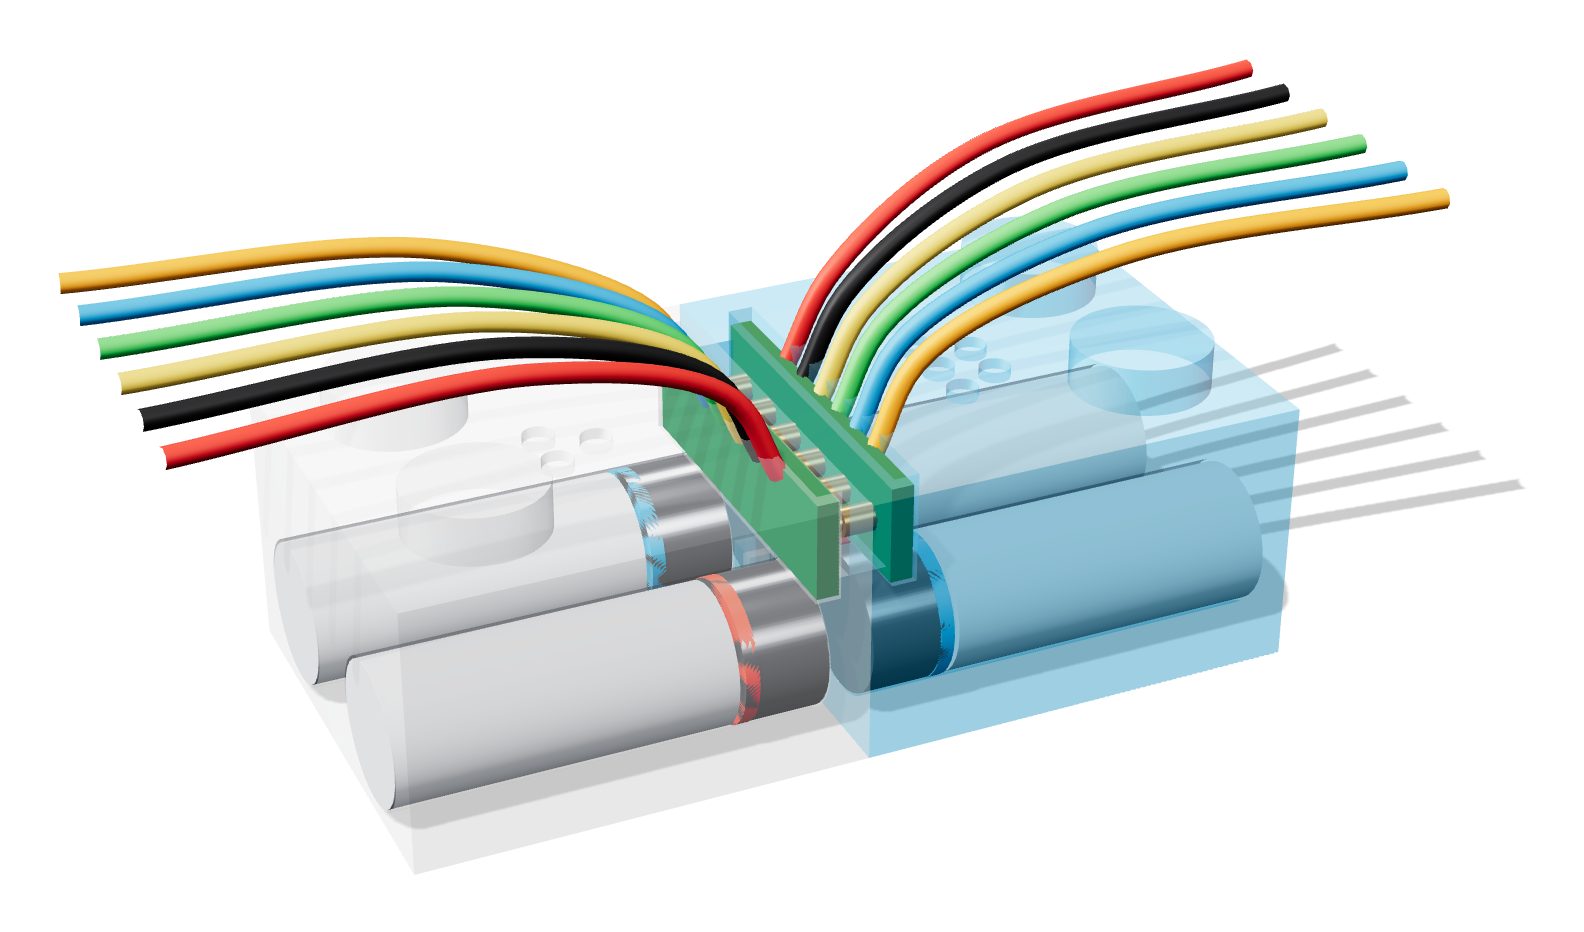
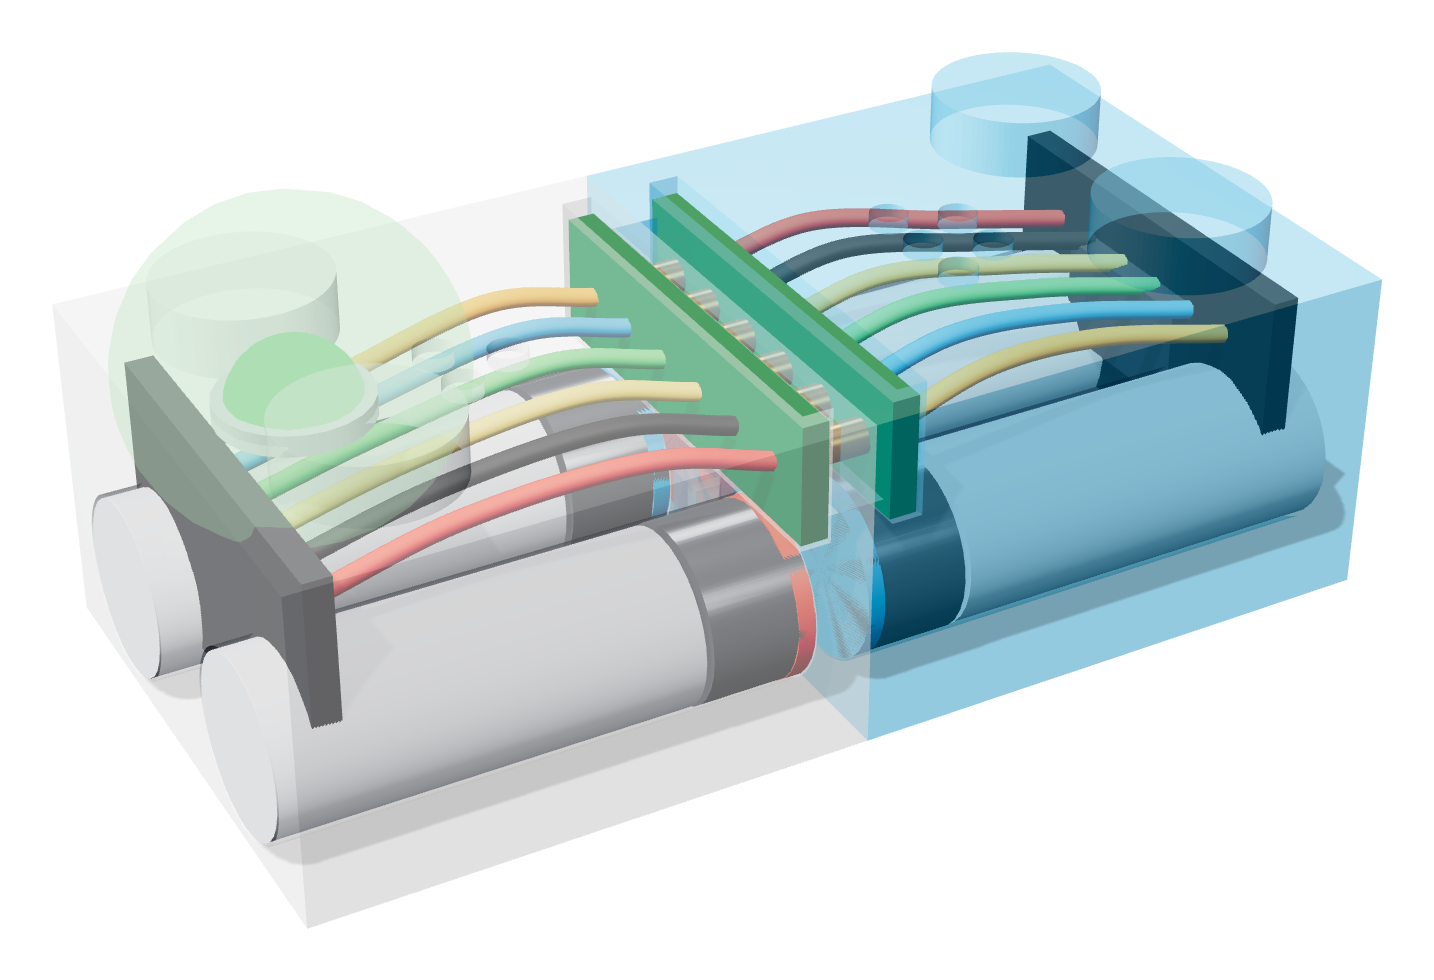
Đầu nối HiNex Link V1: dây đi trong khối, hai khối hít nhau bằng nam châm

diff --git a/index.html b/index.html
@@ -536,9 +536,9 @@ body.locked{overflow:hidden}
     <div class="bg"></div>
     <div class="wrap">
       <div class="copy"><span class="script">Sản phẩm mới</span><h2 class="big"><span class="bn">HiNex</span><br>Link V1</h2></div>
-      <div class="art"><img src="assets/renders/link.png?v=3" alt="Đầu nối nam châm Link-6 của HiNex Link V1"></div>
+      <div class="art"><img src="assets/renders/link.png?v=4" alt="Đầu nối nam châm Link-6 của HiNex Link V1"></div>
     </div>
-    <div class="caption"><b>Hít là nối · Nối là chạy</b><span>Mỗi đầu nối có 2 nam châm N/S, bo mặt nối 6 tiếp điểm mạ vàng và chân pogo truyền điện, tín hiệu</span>
+    <div class="caption"><b>Hít là nối · Nối là chạy</b><span>Dây đi ngầm trong khối lego. Hai khối hít nhau bằng 2 cặp nam châm N/S, 6 chân pogo truyền điện và tín hiệu qua mặt nối</span>
       <div class="row"><a href="#san-pham" class="btn btn-orange">Chi tiết</a><button class="btn btn-ghost" data-open="m-link" type="button">▶ Ghép thử</button></div></div>
   </div>
   <div class="hnav"><button id="hPrev" aria-label="Trang trước">‹</button><div class="dots" id="hDots"><i class="on"></i><i></i><i></i></div><button id="hNext" aria-label="Trang sau">›</button></div>
@@ -550,7 +550,7 @@ body.locked{overflow:hidden}
     <h2 class="stitle rv">Lĩnh vực <span>sản phẩm</span></h2>
     <p class="ssub rv">Bốn nhóm sản phẩm do đội ngũ <span class="bn">HiNex</span> thiết kế và dùng trực tiếp trong lớp học.</p>
     <div class="cards">
-      <article class="card rv"><div class="img"><img src="assets/renders/link.png?v=3" alt="" loading="lazy"></div><div class="body"><h3>Kit học tập</h3><p>Cấp 1 lego từ tính <span class="bn">HiNex</span> Link V1, cấp 2 module rời gắn trên lego, cấp 3 module rời với ESP32-S3 N16R8.</p><div class="acts"><button class="btn-line" data-open="m-link" type="button">Ghép thử →</button><a class="btn-line" href="#kit">Cấp độ →</a></div></div></article>
+      <article class="card rv"><div class="img"><img src="assets/renders/link.png?v=4" alt="" loading="lazy"></div><div class="body"><h3>Kit học tập</h3><p>Cấp 1 lego từ tính <span class="bn">HiNex</span> Link V1, cấp 2 module rời gắn trên lego, cấp 3 module rời với ESP32-S3 N16R8.</p><div class="acts"><button class="btn-line" data-open="m-link" type="button">Ghép thử →</button><a class="btn-line" href="#kit">Cấp độ →</a></div></div></article>
       <article class="card rv"><div class="img"><img src="assets/renders/car.png" alt="" loading="lazy"></div><div class="body"><h3>Robot di động</h3><p>Dò line, né vật cản bằng siêu âm hoặc LiDAR, camera AI nhận diện vật thể. Lắp từ servo, vỏ in 3D và lego.</p><div class="acts"><button class="btn-line" data-open="m-car" type="button">Mô phỏng →</button></div></div></article>
       <article class="card rv"><div class="img"><img src="assets/renders/drone-frame.png" alt="" loading="lazy"></div><div class="body"><h3>Sản phẩm 3D</h3><p>Khung drone lồng bảo vệ, vỏ tay cầm, vỏ servo, vỏ bánh xe, bộ cân bằng. Thiết kế riêng, in được ngay.</p><div class="acts"><button class="btn-line" data-3d="6" type="button">Xem 3D →</button><a class="btn-line" href="#du-an" data-filter="3d">Tất cả →</a></div></div></article>
       <article class="card rv"><div class="img dark"><img src="assets/pcb/controller-evo_top.svg" alt="" loading="lazy"></div><div class="body"><h3>Mạch tự thiết kế</h3><p>Mạch drone, mạch kit ESP32-S3, mạch Yolo:Bit, mạch tay cầm. Từ sơ đồ nguyên lý đến file sản xuất.</p><div class="acts"><a class="btn-line" href="#bo-mach">Xem mạch →</a></div></div></article>
@@ -685,7 +685,7 @@ body.locked{overflow:hidden}
       <button data-f="all" aria-pressed="true" type="button">Tất cả</button><button data-f="kit" aria-pressed="false" type="button">Kit học tập</button><button data-f="robot" aria-pressed="false" type="button">Robot di động</button><button data-f="3d" aria-pressed="false" type="button">Sản phẩm 3D</button><button data-f="pcb" aria-pressed="false" type="button">Mạch tự thiết kế</button>
     </div>
     <div class="gal" id="gal">
-      <button class="gi rv" data-cat="kit" data-open="m-link" type="button"><span class="img"><span class="tag">Mô phỏng</span><img src="assets/renders/link.png?v=3" alt="" loading="lazy"></span><span class="cap"><span class="bn">HiNex</span> Link V1 · đầu nối Link-6<small>2 nam châm N/S · bo mặt nối · 6 chân pogo mạ vàng</small></span></button>
+      <button class="gi rv" data-cat="kit" data-open="m-link" type="button"><span class="img"><span class="tag">Mô phỏng</span><img src="assets/renders/link.png?v=4" alt="" loading="lazy"></span><span class="cap"><span class="bn">HiNex</span> Link V1 · đầu nối Link-6<small>2 nam châm N/S · bo mặt nối · 6 chân pogo mạ vàng</small></span></button>
       <button class="gi rv" data-cat="robot" data-open="m-car" type="button"><span class="img"><span class="tag">Mô phỏng</span><img src="assets/renders/car.png" alt="" loading="lazy"></span><span class="cap">Robot di động<small>Dò line · né vật cản · camera AI</small></span></button>
       <button class="gi rv" data-cat="3d" data-open="m-drone" type="button"><span class="img dark"><span class="tag">Bay thử</span><img src="assets/renders/drone.png?v=2" alt="" loading="lazy"></span><span class="cap"><span class="bn">HiNex</span> Drone V1 hoàn chỉnh<small>Khung lồng bảo vệ · tay cầm ảo</small></span></button>
       <button class="gi rv" data-cat="3d" data-3d="6" type="button"><span class="img"><span class="tag">Xem 3D</span><img src="assets/renders/drone-frame.png" alt="" loading="lazy"></span><span class="cap">Khung lồng bảo vệ drone<small>Thiết kế riêng · 24,6 g · không cần support</small></span></button>
@@ -707,7 +707,7 @@ body.locked{overflow:hidden}
     <h2 class="htitle rv">Hoạt động mới</h2>
     <div class="news-grid">
       <article class="nc rv"><div class="img" style="background:linear-gradient(160deg,#eaf5fd,#d7ecfa)"><img src="assets/renders/drone-frame.png" alt="" loading="lazy"></div><div class="b"><h4><span class="bn">HiNex</span> Drone V1 có khung lồng bảo vệ riêng</h4><p>Khung 2 tầng in 3D nặng 24,6 g, lưới 8 mm chắn cánh, kèm firmware mới cho ESP32-C3. Đang chờ in và bay thử.</p><div><button class="btn-line" data-3d="6" type="button">Xem 3D</button></div></div></article>
-      <article class="nc rv"><div class="img" style="background:linear-gradient(160deg,#eaf5fd,#d7ecfa)"><img src="assets/renders/link-closed.png" alt="" loading="lazy"></div><div class="b"><h4><span class="bn">HiNex</span> Link V1 vào giai đoạn mẫu thử</h4><p>Hoàn thành thiết kế khái niệm và file in thử đầu nối, nam châm, độ khớp lego.</p><div><button class="btn-line" data-open="m-link" type="button">Xem thêm</button></div></div></article>
+      <article class="nc rv"><div class="img" style="background:linear-gradient(160deg,#eaf5fd,#d7ecfa)"><img src="assets/renders/link-closed.png?v=4" alt="" loading="lazy"></div><div class="b"><h4><span class="bn">HiNex</span> Link V1 vào giai đoạn mẫu thử</h4><p>Hoàn thành thiết kế khái niệm và file in thử đầu nối, nam châm, độ khớp lego.</p><div><button class="btn-line" data-open="m-link" type="button">Xem thêm</button></div></div></article>
       <article class="nc rv"><div class="img"><img src="assets/renders/drone.png?v=2" alt="" loading="lazy"></div><div class="b"><h4>Chuẩn bị đội drone soccer FAI F9A-B</h4><p>Bản thiết kế bóng drone thi đấu theo luật FAI F9A-B: pin 3S, motor 1404. Chưa thử bay.</p><div><button class="btn-line" data-open="m-drone" type="button">Bay thử mô phỏng</button></div></div></article>
     </div>
   </div>
